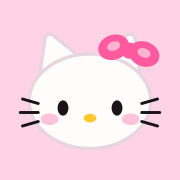
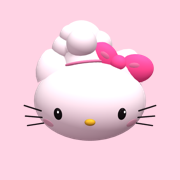
맵기 0~3단계 설명 추가, 탭 아이콘을 3D 냥이 얼굴로, 고춧가루 버튼 맨 왼쪽

Changed region(s): [[0.0833, 0.1111, 0.9167, 0.8333], [0.2222, 0.2778, 0.25, 0.3611]]

diff --git a/nyangi-ramen/script.js b/nyangi-ramen/script.js
@@ -11,17 +11,18 @@ const eunNeun = w => w + (batchim(w) ? '은' : '는');
 const eulReul = w => w + (batchim(w) ? '을' : '를');
 
 /* ---------- Game data ---------- */
+// topping buttons in screen order (left to right); chili sits first since every order has a spice level
 const TOPS = [
+  { id: 'chili',  name: '고춧가루', c: '#e2412b', day: 1 },
   { id: 'egg',    name: '계란',     c: '#ffd23f', day: 1 },
   { id: 'pa',     name: '파',       c: '#6cc04a', day: 1 },
   { id: 'cheese', name: '치즈',     c: '#ffcf33', day: 2 },
   { id: 'tteok',  name: '떡',       c: '#f4efe4', day: 3 },
   { id: 'mandu',  name: '만두',     c: '#efdcb8', day: 3 },
-  { id: 'chili',  name: '고춧가루', c: '#e2412b', day: 1 },
 ];
 const TOP = Object.fromEntries(TOPS.map(t => [t.id, t]));
 // spiciness the customer asks for = how many times to sprinkle chili (0 = not spicy)
-const SPICE_NAME = ['안 맵게', '1단계', '2단계', '3단계'];
+const SPICE_NAME = ['0단계', '1단계', '2단계', '3단계'];
 const SPICE_SAY = ['안 맵게', '조금 맵게', '맵게', '아주 맵게'];
 const WATER = [
   { name: '적게', say: '조금만',   lo: .26, hi: .48 },
@@ -856,7 +857,7 @@ function judge(o, p) {
   const spiceOff = p.chili !== o.spice;
   s += Math.max(0, 1 - .4 * (miss.length + extra.length + (spiceOff ? 1 : 0)));
   if (miss.length) notes.push(`${iGa(TOP[miss[0]].name)} 빠졌어요`);
-  if (spiceOff) notes.push(!o.spice ? '안 맵게 해 달라고 했는데요' : p.chili > o.spice ? '너무 매워요' : '덜 매워요');
+  if (spiceOff) notes.push(!o.spice ? '맵기 0단계라 고춧가루는 빼 달라고 했는데요' : p.chili > o.spice ? '너무 매워요' : '덜 매워요');
   if (extra.length) notes.push(`${eunNeun(TOP[extra[0]].name)} 안 시켰어요`);
   if (!p.soup) { s -= 1.2; notes.unshift('스프를 안 넣었어요!'); }
   const stars = s >= 2.75 ? 3 : s >= 1.9 ? 2 : s >= 1 ? 1 : 0;
@@ -1026,7 +1027,7 @@ function startDay() {
   });
   chime(); nyangiMood('happy', 1);
   const intro = {
-    1: '맵기는 고춧가루로! 1단계면 한 번, 2단계면 두 번 넣어!',
+    1: '맵기는 고춧가루 횟수야! 0단계는 안 넣고, 1단계는 한 번, 2단계는 두 번!',
     2: '오늘부터 치즈도 있어! 주문서를 잘 봐!',
     3: '오늘부터 떡이랑 만두! 손님이 더 까다로워졌어!',
   }[G.day] || '손님이 더 바빠졌어! 힘내자!';
@@ -1066,8 +1067,10 @@ const TUT = [
     demo: '<span class="key col press">물 붓기<small>꾹 누르기</small></span><div class="demo-gauge"><span>물 양</span><div class="bar"><b class="fill anim-water"></b><i class="zone" style="left:48%;width:22%"></i></div></div>' },
   { say: '불을 켜고 보글보글 끓으면, 면이랑 스프를 넣어!',
     demo: '<span class="key on">불 켜기</span><i class="arrow">→</i><span class="key">면 넣기</span><i class="arrow">·</i><span class="key">스프</span>' },
-  { say: '손님이 원한 토핑만 올려 줘. 맵기는 고춧가루로! 2단계면 두 번 눌러. 한 번 넣으면 뺄 수 없어!',
-    demo: '<span class="key on"><i class="sw" style="--c:#ffd23f"></i>계란</span><span class="key"><i class="sw" style="--c:#6cc04a"></i>파</span><span class="key on"><i class="sw" style="--c:#e2412b"></i>고춧가루</span>' },
+  { say: '손님이 원한 토핑만 올려 줘. 한 번 넣으면 뺄 수 없으니 잘 보고 넣어!',
+    demo: '<span class="key on"><i class="sw" style="--c:#ffd23f"></i>계란</span><span class="key"><i class="sw" style="--c:#6cc04a"></i>파</span><span class="key"><i class="sw" style="--c:#ffcf33"></i>치즈</span>' },
+  { say: '주문서의 맵기만큼 고춧가루를 눌러! 0단계는 안 넣고, 1단계는 한 번, 2단계는 두 번, 3단계는 세 번이야.',
+    demo: '<table class="spice-demo"><tr><th>맵기</th><td>0단계</td><td>1단계</td><td>2단계</td><td>3단계</td></tr><tr><th>고춧가루</th><td>안 넣기</td><td>한 번</td><td>두 번</td><td>세 번</td></tr></table>' },
   { say: '익힘 막대가 분홍 칸에 오면 서빙! 별 세 개를 받아 보자!',
     demo: `<div class="demo-gauge"><span>익힘</span><div class="bar">${COOK_SEGS}<i class="zone" style="left:25%;width:25%"></i><b class="marker anim-cook"></b></div></div><span class="key serve">서빙하기</span><span class="demo-stars">★★★</span>` },
 ];

diff --git a/nyangi-ramen/styles.css b/nyangi-ramen/styles.css
@@ -182,3 +182,7 @@ body{overflow:hidden;background:var(--sky);color:var(--ink);font-family:var(--bo
 
 #nyangiSay{position:absolute;transform:translate(-50%,-100%);pointer-events:none;background:#fff;border:2px solid var(--pink);border-radius:16px;padding:7px 12px;
   font-family:var(--display);font-size:15px;width:max-content;max-width:min(240px,70vw);text-align:center;word-break:keep-all;box-shadow:0 4px 0 rgba(226,71,127,.18)}
+.spice-demo{border-collapse:separate;border-spacing:4px;font-size:13px}
+.spice-demo th{font-weight:400;color:var(--muted);text-align:left;padding-right:4px;white-space:nowrap}
+.spice-demo td{background:#fff;border:2px solid var(--line);border-radius:10px;padding:5px 8px;text-align:center;font-family:var(--display);white-space:nowrap}
+.spice-demo tr:last-child td{color:#c5221a}

diff --git a/nyangi-ramen/index.html b/nyangi-ramen/index.html
@@ -5,7 +5,7 @@
 <meta name="viewport" content="width=device-width, initial-scale=1, viewport-fit=cover">
 <title>냥이의 라면가게</title>
 <meta name="description" content="냥이와 함께 손님 주문대로 라면을 끓이는 3D 요리 게임">
-<link rel="icon" href="favicon.svg" type="image/svg+xml">
+<link rel="icon" href="favicon.png" sizes="64x64" type="image/png">
 <link rel="icon" href="favicon-32.png" sizes="32x32" type="image/png">
 <link rel="apple-touch-icon" href="apple-touch-icon.png">
 <link rel="preconnect" href="https://fonts.googleapis.com">

diff --git a/README.md b/README.md
@@ -38,7 +38,7 @@
 - 손님이 기다려 주는 시간은 1일차 **45초**이고, 하루마다 3초씩 줄어 최소 32초까지 줄어듭니다.
 - 물 양 정답 범위를 넓히고, 면이 천천히 익게 해서 타이밍을 맞추기 쉽게 했습니다.
 - **글 대신 캐릭터로 시작합니다.** 첫 화면에는 긴 설명 없이 라면가게 거리 앞에 선 냥이와 '시작하기'·'사용 방법' 버튼 두 개만 있습니다.
-- **사용 방법은 냥이가 직접 알려 줍니다.** 냥이가 말풍선으로 한 단계씩(7단계) 설명하고, 각 단계마다 실제 버튼·게이지가 움직이는 그림을 보여 줍니다.
+- **사용 방법은 냥이가 직접 알려 줍니다.** 냥이가 말풍선으로 한 단계씩(7단계, 맵기 설명 포함) 설명하고, 각 단계마다 실제 버튼·게이지가 움직이는 그림을 보여 줍니다.
 - **실수해도 괜찮게** 만들었습니다. '버리기'로 처음부터 다시 할 수 있고, 목표를 못 채워도 같은 날을 다시 도전할 수 있습니다. 다만 토핑은 한 번 넣으면 뺄 수 없어서, 주문을 잘 보고 넣어야 합니다.
 - 물 붓기는 **버튼을 꾹 누르다가 알맞을 때 손을 떼는** 조작이라 아이들이 직관적으로 할 수 있습니다.
 
@@ -76,7 +76,11 @@
 3. **불 켜기** — 냄비 위에 '보글보글!'이 뜨면 물이 끓은 거예요.
 4. **면·스프 넣기 → 토핑 올리기 → 맵기 맞추기** — 넣는 순서는 자유예요. 스프를 빼먹으면 별점이 크게 깎여요!
    - 토핑은 한 번 넣으면 뺄 수 없어요.
-   - **맵기:** 주문서 왼쪽 위에 '맵기 2단계'처럼 나와요. 고춧가루를 그 횟수만큼 눌러요(1단계 = 한 번). '안 맵게'면 고춧가루를 넣지 않아요. 넣은 횟수는 화면에 따로 표시되지 않아서 스스로 세야 해요.
+   - **맵기:** 주문서 왼쪽 위에 '맵기 2단계'처럼 나와요. 맵기 단계만큼 고춧가루를 눌러요. 넣은 횟수는 화면에 따로 표시되지 않아서 스스로 세야 해요.
+
+     | 맵기 | 0단계 | 1단계 | 2단계 | 3단계 |
+     |---|---|---|---|---|
+     | 고춧가루 | 안 넣기 | 한 번 | 두 번 | 세 번 |
 5. **서빙하기** — '익힘' 게이지의 검은 막대가 분홍 칸 안에 있을 때 서빙해요. 냄비 위 글씨가 **초록색**으로 바뀌면 바로 그때예요.
 
 ### 별점과 돈
@@ -100,7 +104,7 @@
 ```
 화면                                   키보드
 [물 붓기][불 켜기][면 넣기][스프]      →  Q  W  E  R
-[계란][파][치즈][떡][만두][고춧가루]   →  A  S  D  F  G  H
+[고춧가루][계란][파][치즈][떡][만두]   →  A  S  D  F  G  H
 [버리기]        [서빙하기]             →  Z      Space
 ```
 
@@ -110,7 +114,7 @@
 | 불 켜기/끄기 | 불 켜기 | W |
 | 면 넣기 | 면 넣기 | E |
 | 스프 넣기 | 스프 | R |
-| 토핑 | 계란·파·치즈·떡·만두·고춧가루 | A · S · D · F · G · H |
+| 토핑 | 고춧가루·계란·파·치즈·떡·만두 | A · S · D · F · G · H |
 | 냄비 비우기 | 버리기 | Z |
 | 서빙 | 서빙하기 | Space |
 
@@ -151,7 +155,7 @@ my-game/
 │   ├── index.html   # 화면 구조 (주문서, 게이지, 버튼, 시작·결과 화면)
 │   ├── styles.css   # 디자인 (색, 글꼴, 배치, 모바일 대응)
 │   ├── script.js    # 3D 장면과 게임 규칙 (조리 상태, 손님, 별점, 하루 진행)
-│   └── favicon.svg 외 아이콘 2개  # 브라우저 탭·홈 화면 아이콘 (냥이 얼굴)
+│   └── favicon.png 외 아이콘 2개  # 브라우저 탭·홈 화면 아이콘 (게임 속 3D 냥이 얼굴)
 ├── parkour-runner/  # 도시 파쿠르 러너 (별도 게임)
 └── README.md
 ```
@@ -251,6 +255,9 @@ AI와 일하는 리듬인 **계획 → 만들기 → 관찰 → 다시 요청하
 | 52 | "토핑 순서에서 스프>면은 빼고 자유롭게. 아니 토핑 순서는 그냥 빼자. 손님 기다리는 시간이 긴데 줄이면? 고춧가루를 누르면 ×1, ×2 글자가 늘어나 화면이 줄어드니 표기하지 말고, 고춧가루는 1일차부터 맵기로 왼쪽 위에. 2단계는 시간이 줄어드나? 2만원이 빡빡해. 3일차는 익힘 기다리면 시간이 부족해서 처음 하는 사람은 어려울 듯." | 순서 규칙과 순서 표시를 모두 없앰(넣는 순서 자유). 손님 대기 시간을 1일차 66초 → 45초(하루 −3초, 최소 32초)로 줄임. 고춧가루를 1일차부터 열고, 맵기(안 맵게·1~3단계)를 주문서 왼쪽 위에 따로 표시, 버튼의 ×횟수 표시는 없앰. 하루 시간은 매일 2분으로 같다는 점을 확인하고, 면이 약 1.3배 빨리 익게 하고 목표 금액을 1일차 15,000원·하루 +3,000원으로 완화 |
 | 53 | "게임 소리가 계속 나는데 꺼줄래?" | 테스트하던 브라우저 창에서 게임이 켜져 있어 배경음악이 나오던 것. 창과 테스트 서버를 닫음 |
 | 54 | "브라우저 탭에 아이콘이 비어 있어. 캐릭터 얼굴만 넣어줄래?" | 냥이 얼굴(귀·리본·눈·코·수염)을 그린 탭 아이콘을 만들어 넣음. 휴대폰 홈 화면에 추가할 때 쓰는 분홍 배경 아이콘도 함께 추가 |
+| 55 | "맵기 1단계, 2단계는 고춧가루를 한 번, 두 번 넣어야 한다는 설명이 없어. 게임 방법에 넣어 줘. 0단계(고춧가루 안 넣기)도 추가해 줘." | 맵기 이름을 0~3단계로 정리(0단계 = 안 넣기)하고, 사용 방법에 맵기 단계별 고춧가루 횟수 표를 보여 주는 단계를 따로 추가. 첫날 냥이 한마디와 README 게임 방법에도 같은 설명을 넣음 |
+| 56 | "캐릭터가 왜 2D 형태가 됐어? 게임 안 그대로 3D 형태로 안 될까?" | 탭 아이콘을 손으로 그린 2D 대신, 게임 속 3D 냥이 머리(요리 모자·리본 포함)를 투명 배경으로 직접 렌더링한 이미지로 교체. 홈 화면 아이콘도 같은 3D 얼굴로 |
+| 57 | "고춧가루 위치를 맨 왼쪽으로 하자." | 토핑 버튼 줄에서 고춧가루를 맨 왼쪽으로 옮김. 키도 화면 순서를 따라 고춧가루 A, 계란 S, 파 D, 치즈 F, 떡 G, 만두 H |
 
 ---
 
